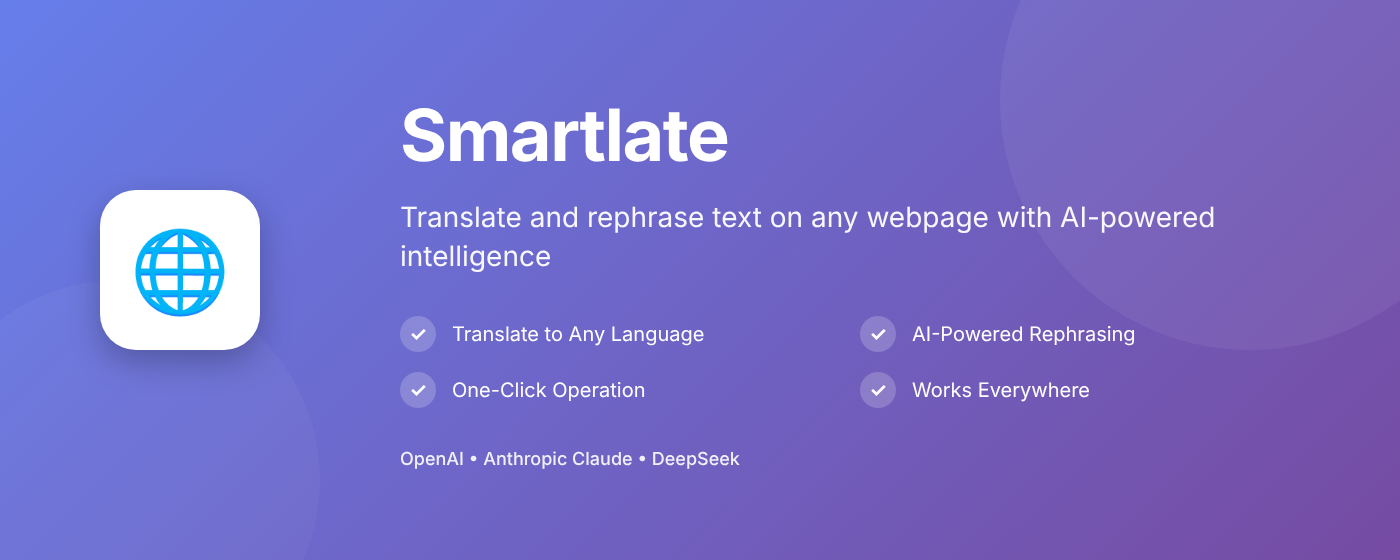
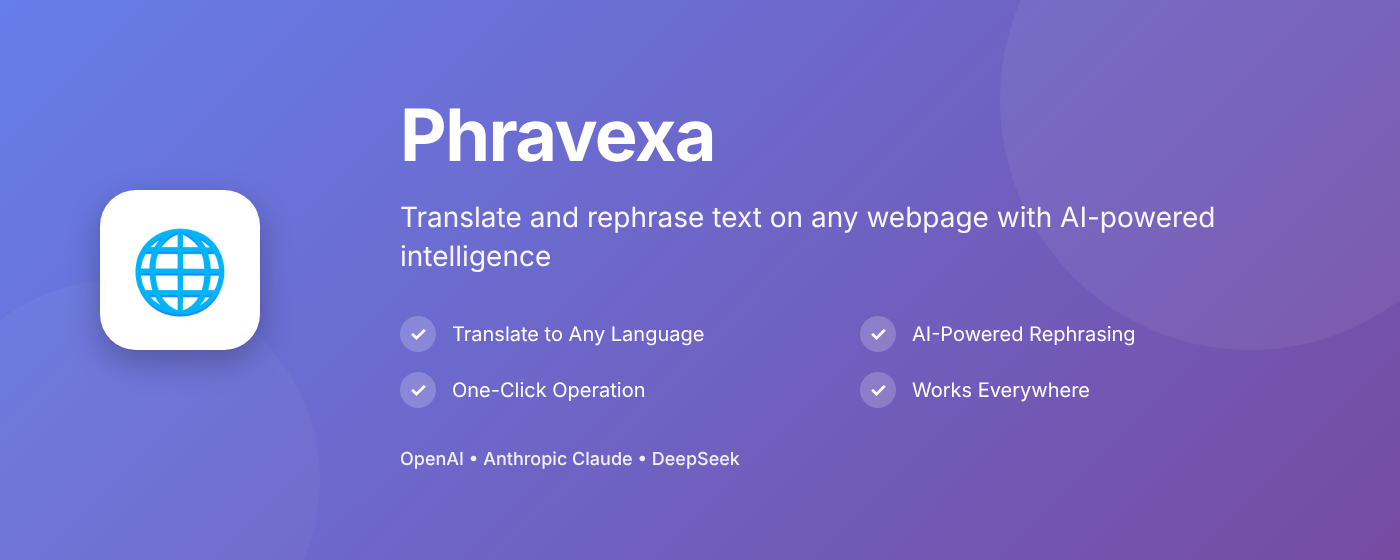
Rename product to Phravexa
The owner's chosen brand is Phravexa. Rename all user-facing text,
store listing, privacy policy, promo tiles, build output and internal
identifiers. Storage keys are unchanged, so existing settings carry over.

Claude-Session: https://claude.ai/code/session_01HsyCHqjEFZSQKjeqQmGuip

Changed region(s): [[0.2764, 0.1821, 0.5221, 0.3036]]

diff --git a/extension/lib/core.js b/extension/lib/core.js
@@ -1,4 +1,4 @@
-// Smartlate core logic: prompt building, provider requests, response parsing,
+// Phravexa core logic: prompt building, provider requests, response parsing,
 // result cleanup and error classification. Pure functions with no Chrome API
 // calls, so they can be unit-tested in Node and loaded in the service worker
 // via importScripts().
@@ -31,10 +31,10 @@
   // Selections larger than this are rejected before calling the provider
   const MAX_INPUT_CHARS = 30000;
 
-  class SmartlateError extends Error {
+  class PhravexaError extends Error {
     constructor(title, message, { isWarning = false, code = 'unknown' } = {}) {
       super(message);
-      this.name = 'SmartlateError';
+      this.name = 'PhravexaError';
       this.title = title;
       this.isWarning = isWarning;
       this.code = code;
@@ -73,7 +73,7 @@
   function buildRequest({ provider, apiKey, prompt, model }) {
     const config = PROVIDERS[provider];
     if (!config) {
-      throw new SmartlateError(
+      throw new PhravexaError(
         'Unsupported Provider',
         `Provider '${provider}' is not supported. Please choose OpenAI, Anthropic or DeepSeek in settings.`,
         { code: 'unsupported_provider' }
@@ -116,7 +116,7 @@
     return { url: config.url, init: { method: 'POST', headers, body: JSON.stringify(body) }, model: resolvedModel };
   }
 
-  // Returns the generated text, or throws a SmartlateError when the provider
+  // Returns the generated text, or throws a PhravexaError when the provider
   // answered 200 but without usable text.
   function parseResponse(provider, json) {
     let content = '';
@@ -124,7 +124,7 @@
     let refused = false;
 
     if (!json || typeof json !== 'object') {
-      throw new SmartlateError('Unexpected Response', 'The AI provider returned an unreadable response. Please try again.', { code: 'bad_response' });
+      throw new PhravexaError('Unexpected Response', 'The AI provider returned an unreadable response. Please try again.', { code: 'bad_response' });
     }
 
     if (provider === 'anthropic') {
@@ -146,10 +146,10 @@
     }
 
     if (refused && !content.trim()) {
-      throw new SmartlateError('Request Declined', 'The AI provider declined to process this text.', { isWarning: true, code: 'refused' });
+      throw new PhravexaError('Request Declined', 'The AI provider declined to process this text.', { isWarning: true, code: 'refused' });
     }
     if (!content.trim()) {
-      throw new SmartlateError('Empty Result', 'The AI provider returned an empty result. Please try again.', { code: 'empty_result' });
+      throw new PhravexaError('Empty Result', 'The AI provider returned an empty result. Please try again.', { code: 'empty_result' });
     }
     return { content, truncated };
   }
@@ -202,42 +202,42 @@
     const suffix = detail ? ` (${detail.slice(0, 160)})` : '';
 
     if (status === 401 || status === 403) {
-      return new SmartlateError('Invalid API Key', `${providerLabel} rejected your API key. Please check it in Smartlate settings.`, { code: 'auth' });
+      return new PhravexaError('Invalid API Key', `${providerLabel} rejected your API key. Please check it in Phravexa settings.`, { code: 'auth' });
     }
     if (status === 402 || lowered.includes('insufficient') || lowered.includes('quota') || lowered.includes('credit balance')) {
-      return new SmartlateError('Out of Credit', `${providerLabel} reports that your account has no remaining credit or quota. Add billing credit with the provider and try again.`, { code: 'quota' });
+      return new PhravexaError('Out of Credit', `${providerLabel} reports that your account has no remaining credit or quota. Add billing credit with the provider and try again.`, { code: 'quota' });
     }
     if (status === 429) {
-      return new SmartlateError('Rate Limit', `${providerLabel} is rate limiting requests. Please wait a moment and try again.`, { isWarning: true, code: 'rate_limit' });
+      return new PhravexaError('Rate Limit', `${providerLabel} is rate limiting requests. Please wait a moment and try again.`, { isWarning: true, code: 'rate_limit' });
     }
     if (status === 404 || (status === 400 && lowered.includes('model') &&
         /(not found|does not exist|invalid|unknown|not supported|not available)/.test(lowered))) {
-      return new SmartlateError('Model Not Available', `The selected model is not available for your account${suffix}. Set a different model in Smartlate settings.`, { code: 'model' });
+      return new PhravexaError('Model Not Available', `The selected model is not available for your account${suffix}. Set a different model in Phravexa settings.`, { code: 'model' });
     }
     if (status === 400 || status === 413 || status === 422) {
-      return new SmartlateError('Request Rejected', `${providerLabel} rejected the request${suffix}.`, { code: 'bad_request' });
+      return new PhravexaError('Request Rejected', `${providerLabel} rejected the request${suffix}.`, { code: 'bad_request' });
     }
     if (status >= 500) {
-      return new SmartlateError('Provider Unavailable', `${providerLabel} is temporarily unavailable (HTTP ${status}). Please try again shortly.`, { isWarning: true, code: 'server' });
+      return new PhravexaError('Provider Unavailable', `${providerLabel} is temporarily unavailable (HTTP ${status}). Please try again shortly.`, { isWarning: true, code: 'server' });
     }
-    return new SmartlateError('Translation Error', `Request failed with HTTP ${status}${suffix}.`, { code: 'http' });
+    return new PhravexaError('Translation Error', `Request failed with HTTP ${status}${suffix}.`, { code: 'http' });
   }
 
   function classifyNetworkError(err) {
     if (err && (err.name === 'AbortError' || err.name === 'TimeoutError')) {
-      return new SmartlateError('Request Timed Out', 'The AI provider did not respond in time. Please try again.', { isWarning: true, code: 'timeout' });
+      return new PhravexaError('Request Timed Out', 'The AI provider did not respond in time. Please try again.', { isWarning: true, code: 'timeout' });
     }
-    return new SmartlateError('Network Error', 'Could not reach the AI provider. Please check your internet connection.', { isWarning: true, code: 'network' });
+    return new PhravexaError('Network Error', 'Could not reach the AI provider. Please check your internet connection.', { isWarning: true, code: 'network' });
   }
 
   function validateSelection(selection) {
     const text = selection && typeof selection.text === 'string' ? selection.text : '';
     if (!text.trim()) {
-      throw new SmartlateError('No Text Selected', 'Select some text first, then right-click and choose a language.', { isWarning: true, code: 'empty_selection' });
+      throw new PhravexaError('No Text Selected', 'Select some text first, then right-click and choose a language.', { isWarning: true, code: 'empty_selection' });
     }
     const input = selection.html || text;
     if (input.length > MAX_INPUT_CHARS) {
-      throw new SmartlateError('Selection Too Long', `Please select less text (up to about ${MAX_INPUT_CHARS.toLocaleString('en-US')} characters).`, { isWarning: true, code: 'too_long' });
+      throw new PhravexaError('Selection Too Long', `Please select less text (up to about ${MAX_INPUT_CHARS.toLocaleString('en-US')} characters).`, { isWarning: true, code: 'too_long' });
     }
   }
 
@@ -260,7 +260,7 @@
     PROVIDERS,
     MAX_INPUT_CHARS,
     MAX_OUTPUT_TOKENS,
-    SmartlateError,
+    PhravexaError,
     isRephrase,
     buildPrompt,
     resolveModel,
@@ -276,5 +276,5 @@
   if (typeof module !== 'undefined' && module.exports) {
     module.exports = api;
   }
-  root.SmartlateCore = api;
+  root.PhravexaCore = api;
 })(typeof globalThis !== 'undefined' ? globalThis : this);

diff --git a/extension/background.js b/extension/background.js
@@ -1,9 +1,9 @@
 importScripts('lib/core.js');
 
 const {
-  SmartlateError, PROVIDERS, buildPrompt, buildRequest, parseResponse, cleanResult,
+  PhravexaError, PROVIDERS, buildPrompt, buildRequest, parseResponse, cleanResult,
   classifyHttpError, classifyNetworkError, validateSelection, normalizeLanguages, isRephrase
-} = self.SmartlateCore;
+} = self.PhravexaCore;
 
 const DEFAULT_LANGUAGES = ['German', 'Spanish', 'French', 'Chinese'];
 const DEFAULT_TONE = 'Professional and polite, but maintain a friendly and approachable tone suitable for client communication. Keep all URLs unchanged.';
@@ -61,7 +61,7 @@ chrome.runtime.onInstalled.addListener(async (details) => {
       chrome.runtime.openOptionsPage();
     }
   } catch (err) {
-    console.error('Smartlate setup failed:', err);
+    console.error('Phravexa setup failed:', err);
   }
 });
 
@@ -105,7 +105,7 @@ chrome.contextMenus.onClicked.addListener((info, tab) => {
   getSelection(info, tab)
     .then(selection => handleTextTransformation(selection, language, tab))
     .catch(err => {
-      console.error('Smartlate failed:', err);
+      console.error('Phravexa failed:', err);
       showErrorMessage(tab, 'Unexpected Error', 'Something went wrong. Please try again.');
     });
 });
@@ -218,7 +218,7 @@ async function handleTextTransformation(selection, language, tab) {
 
     const settings = await getSettings();
     if (!settings.apiKey) {
-      throw new SmartlateError('Setup Required', 'Add your AI provider and API key in Smartlate settings (click the extension icon).', { isWarning: true, code: 'no_key' });
+      throw new PhravexaError('Setup Required', 'Add your AI provider and API key in Phravexa settings (click the extension icon).', { isWarning: true, code: 'no_key' });
     }
 
     showLoadingIndicator(tab, isRephrase(language) ? 'Rephrasing' : `Translating to ${language}`);
@@ -240,10 +240,10 @@ async function handleTextTransformation(selection, language, tab) {
       truncated: raw.truncated
     });
   } catch (err) {
-    if (err instanceof SmartlateError) {
+    if (err instanceof PhravexaError) {
       await showErrorMessage(tab, err.title, err.message, err.isWarning);
     } else {
-      console.error('Smartlate failed:', err);
+      console.error('Phravexa failed:', err);
       await showErrorMessage(tab, 'Unexpected Error', 'Something went wrong. Please try again.');
     }
   }
@@ -279,7 +279,7 @@ async function callProvider(settings, prompt) {
   try {
     json = await response.json();
   } catch (err) {
-    throw new SmartlateError('Unexpected Response', `${label} returned an unreadable response. Please try again.`, { code: 'bad_response' });
+    throw new PhravexaError('Unexpected Response', `${label} returned an unreadable response. Please try again.`, { code: 'bad_response' });
   }
   return parseResponse(settings.provider, json);
 }
@@ -355,7 +355,7 @@ function writeClipboard(text, html) {
 
 async function copyToClipboardAndNotify(tab, { text, html, message, truncated }) {
   if ((!text || !text.trim()) && (!html || !html.trim())) {
-    throw new SmartlateError('Empty Result', 'The AI provider returned an empty result. Please try again.', { code: 'empty_result' });
+    throw new PhravexaError('Empty Result', 'The AI provider returned an empty result. Please try again.', { code: 'empty_result' });
   }
 
   let response;
@@ -363,13 +363,13 @@ async function copyToClipboardAndNotify(tab, { text, html, message, truncated })
     response = await writeClipboard(text, html);
   } catch (err) {
     console.error('Clipboard write failed:', err);
-    throw new SmartlateError('Clipboard Error', 'Could not copy the result to the clipboard. Please try again.', { code: 'clipboard' });
+    throw new PhravexaError('Clipboard Error', 'Could not copy the result to the clipboard. Please try again.', { code: 'clipboard' });
   }
 
   const preview = (response && response.text) || text || '';
   const shown = await sendToPage(tab, { type: 'show-popup', text: preview, truncated: Boolean(truncated) });
   if (!shown) {
-    notify('Smartlate', `${message}.${truncated ? ' The result may be cut short.' : ''}`);
+    notify('Phravexa', `${message}.${truncated ? ' The result may be cut short.' : ''}`);
   }
 }
 

diff --git a/tests/e2e/extension.e2e.test.js b/tests/e2e/extension.e2e.test.js
@@ -25,7 +25,7 @@ let context, worker, server, baseUrl, userDataDir, extDir;
 // gesture. The test copy adds a host permission for the local fixture server
 // so scripts can be injected without one.
 function prepareTestExtension() {
-  extDir = fs.mkdtempSync(path.join(os.tmpdir(), 'smartlate-ext-'));
+  extDir = fs.mkdtempSync(path.join(os.tmpdir(), 'phravexa-ext-'));
   fs.cpSync(EXT_SRC, extDir, { recursive: true });
   const manifestPath = path.join(extDir, 'manifest.json');
   const manifest = JSON.parse(fs.readFileSync(manifestPath, 'utf8'));
@@ -42,7 +42,7 @@ test.before(async () => {
   await new Promise(r => server.listen(0, '127.0.0.1', r));
   baseUrl = `http://127.0.0.1:${server.address().port}/`;
 
-  userDataDir = fs.mkdtempSync(path.join(os.tmpdir(), 'smartlate-profile-'));
+  userDataDir = fs.mkdtempSync(path.join(os.tmpdir(), 'phravexa-profile-'));
   context = await chromium.launchPersistentContext(userDataDir, {
     channel: 'chromium',
     headless: true,
@@ -110,14 +110,14 @@ test('service worker boots with the core module and defaults', async () => {
     await new Promise(r => setTimeout(r, 100));
   }
   const state = await worker.evaluate(async () => ({
-    hasCore: typeof self.SmartlateCore === 'object',
+    hasCore: typeof self.PhravexaCore === 'object',
     sync: await chrome.storage.sync.get(['languages', 'tone']),
     manifest: chrome.runtime.getManifest()
   }));
   assert.equal(state.hasCore, true);
   assert.deepEqual(state.sync.languages, ['German', 'Spanish', 'French', 'Chinese']);
   assert.ok(state.sync.tone.length > 0);
-  assert.equal(state.manifest.name, 'Smartlate – AI Translate & Rephrase');
+  assert.equal(state.manifest.name, 'Phravexa – AI Translate & Rephrase');
 });
 
 test('formatted selection is translated, copied as HTML and confirmed in the page', async () => {

diff --git a/tests/core.test.js b/tests/core.test.js
@@ -4,7 +4,7 @@ const assert = require('node:assert/strict');
 const core = require('../extension/lib/core.js');
 
 const { buildPrompt, buildRequest, parseResponse, cleanResult, classifyHttpError,
-  classifyNetworkError, validateSelection, normalizeLanguages, resolveModel, PROVIDERS, SmartlateError } = core;
+  classifyNetworkError, validateSelection, normalizeLanguages, resolveModel, PROVIDERS, PhravexaError } = core;
 
 test('buildPrompt: rephrase in English uses tone and plain-text formatting rules', () => {
   const { prompt, isHtml, input, resultName } = buildPrompt({ language: 'English', instructions: 'Casual', text: 'Hi\n\n- a\n- b', html: null });
@@ -80,7 +80,7 @@ test('buildRequest: DeepSeek endpoint and model override', () => {
 });
 
 test('buildRequest: unknown provider throws a user-facing error', () => {
-  assert.throws(() => buildRequest({ provider: 'nope', apiKey: 'k', prompt: 'P' }), e => e instanceof SmartlateError && e.code === 'unsupported_provider');
+  assert.throws(() => buildRequest({ provider: 'nope', apiKey: 'k', prompt: 'P' }), e => e instanceof PhravexaError && e.code === 'unsupported_provider');
 });
 
 test('resolveModel: blank override uses default', () => {

diff --git a/scripts/verify-package.js b/scripts/verify-package.js
@@ -1,5 +1,5 @@
 #!/usr/bin/env node
-// Verifies a Smartlate store ZIP: exact file list, valid manifest, version in
+// Verifies a Phravexa store ZIP: exact file list, valid manifest, version in
 // file name matches the manifest, and every file the manifest references exists.
 // Usage: node scripts/verify-package.js <zip> <expected files...>
 'use strict';
@@ -39,7 +39,7 @@ if (manifest) {
   if (!manifest.name || manifest.name.length > 75) errors.push('name missing or longer than 75 characters');
   if (!manifest.description || manifest.description.length > 132) errors.push('description missing or longer than 132 characters');
   if (!/^\d+(\.\d+){0,3}$/.test(manifest.version || '')) errors.push(`invalid version: ${manifest.version}`);
-  const expectedName = `smartlate-${manifest.version}.zip`;
+  const expectedName = `phravexa-${manifest.version}.zip`;
   if (path.basename(zipPath) !== expectedName) errors.push(`ZIP should be named ${expectedName}`);
 
   const referenced = [

diff --git a/chrome-store-submission/promo-tile-marquee.html b/chrome-store-submission/promo-tile-marquee.html
@@ -2,7 +2,7 @@
 <html>
 <head>
   <meta charset="UTF-8">
-  <title>Smartlate - Marquee Promo Tile (1400x560)</title>
+  <title>Phravexa - Marquee Promo Tile (1400x560)</title>
   <style>
     body {
       margin: 0;
@@ -186,7 +186,7 @@
         <div class="icon">🌐</div>
       </div>
       <div class="right-section">
-        <h1>Smartlate</h1>
+        <h1>Phravexa</h1>
         <p class="tagline">Translate and rephrase text on any webpage with AI-powered intelligence</p>
         <div class="features">
           <div class="feature">Translate to Any Language</div>

diff --git a/chrome-store-submission/promo-tile-large.html b/chrome-store-submission/promo-tile-large.html
@@ -2,7 +2,7 @@
 <html>
 <head>
   <meta charset="UTF-8">
-  <title>Smartlate - Large Promo Tile (920x680)</title>
+  <title>Phravexa - Large Promo Tile (920x680)</title>
   <style>
     body {
       margin: 0;
@@ -150,7 +150,7 @@
         <div class="icon">🌐</div>
       </div>
       <div class="right-section">
-        <h1>Smartlate</h1>
+        <h1>Phravexa</h1>
         <p class="tagline">Smart AI Translation & Rephrasing</p>
         <ul class="features">
           <li>Translate to Any Language</li>

diff --git a/chrome-store-submission/promo-tile-small.html b/chrome-store-submission/promo-tile-small.html
@@ -2,7 +2,7 @@
 <html>
 <head>
   <meta charset="UTF-8">
-  <title>Smartlate - Small Promo Tile (440x280)</title>
+  <title>Phravexa - Small Promo Tile (440x280)</title>
   <style>
     body {
       margin: 0;
@@ -115,7 +115,7 @@
     <div class="tile">
       <div class="content">
         <div class="icon">🌐</div>
-        <h1>Smartlate</h1>
+        <h1>Phravexa</h1>
         <p class="tagline">Smart AI Translation & Rephrasing</p>
       </div>
     </div>

diff --git a/extension/popup.html b/extension/popup.html
@@ -1,7 +1,7 @@
 <!DOCTYPE html>
 <html>
 <head>
-  <title>Smartlate</title>
+  <title>Phravexa</title>
   <style>
     body {
       font-family: sans-serif;
@@ -50,7 +50,7 @@
   </style>
 </head>
 <body>
-  <h3>Smartlate</h3>
+  <h3>Phravexa</h3>
 
   <div id="warning-message" class="warning" style="display: none;">
     <div><strong>No API Key Configured</strong></div>

diff --git a/extension/options.html b/extension/options.html
@@ -1,7 +1,7 @@
 <!DOCTYPE html>
 <html>
 <head>
-  <title>Smartlate Settings</title>
+  <title>Phravexa Settings</title>
   <style>
     body {
       font-family: sans-serif;
@@ -54,7 +54,7 @@
   </style>
 </head>
 <body>
-  <h1>Smartlate Settings</h1>
+  <h1>Phravexa Settings</h1>
 
   <form id="settings-form">
     <h2>AI Provider</h2>

diff --git a/extension/content.js b/extension/content.js
@@ -1,6 +1,6 @@
 // Prevent duplicate injection
-if (!window.smartlateContentScriptLoaded) {
-    window.smartlateContentScriptLoaded = true;
+if (!window.phravexaContentScriptLoaded) {
+    window.phravexaContentScriptLoaded = true;
 
     // Store reference to current popup
     let currentPopup = null;

diff --git a/extension/options.js b/extension/options.js
@@ -1,4 +1,4 @@
-const { PROVIDERS, normalizeLanguages } = globalThis.SmartlateCore;
+const { PROVIDERS, normalizeLanguages } = globalThis.PhravexaCore;
 
 const providerSelect = document.getElementById('provider');
 const apiKeyInput = document.getElementById('apiKey');
